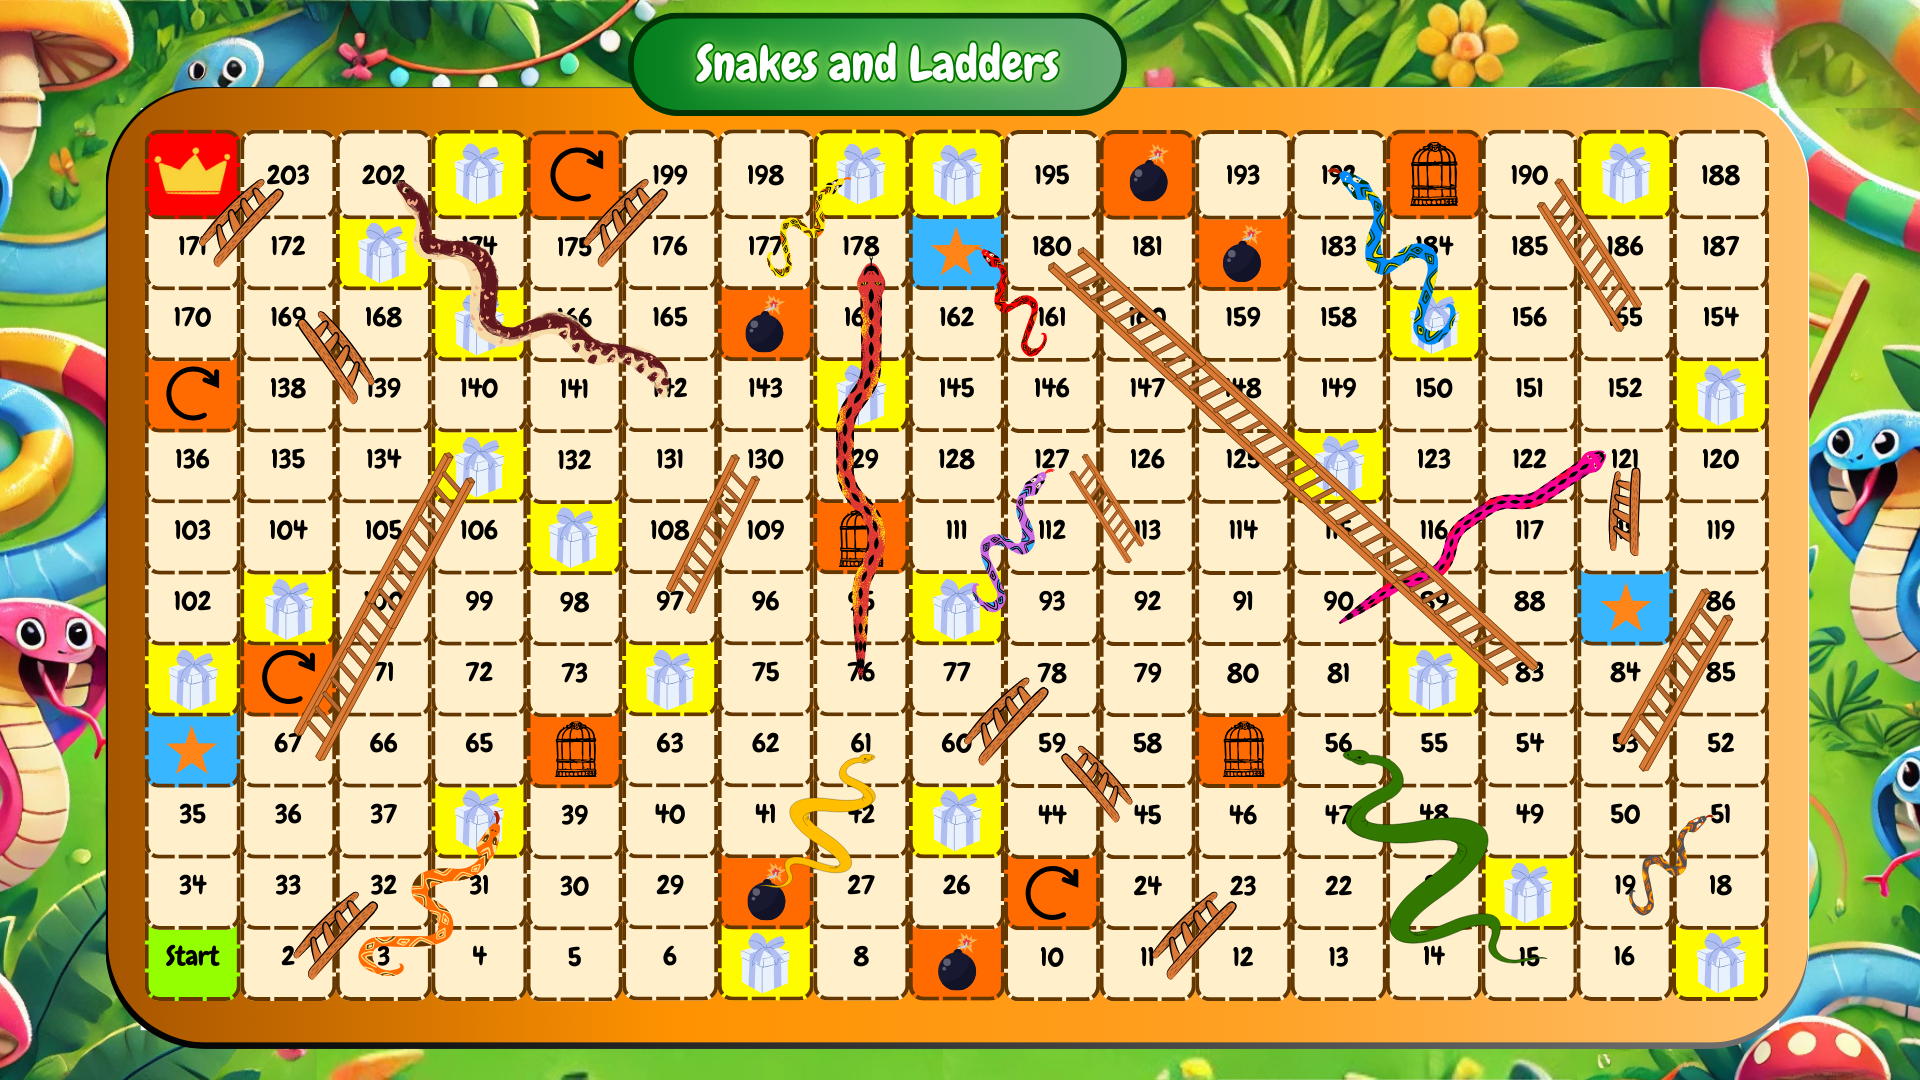
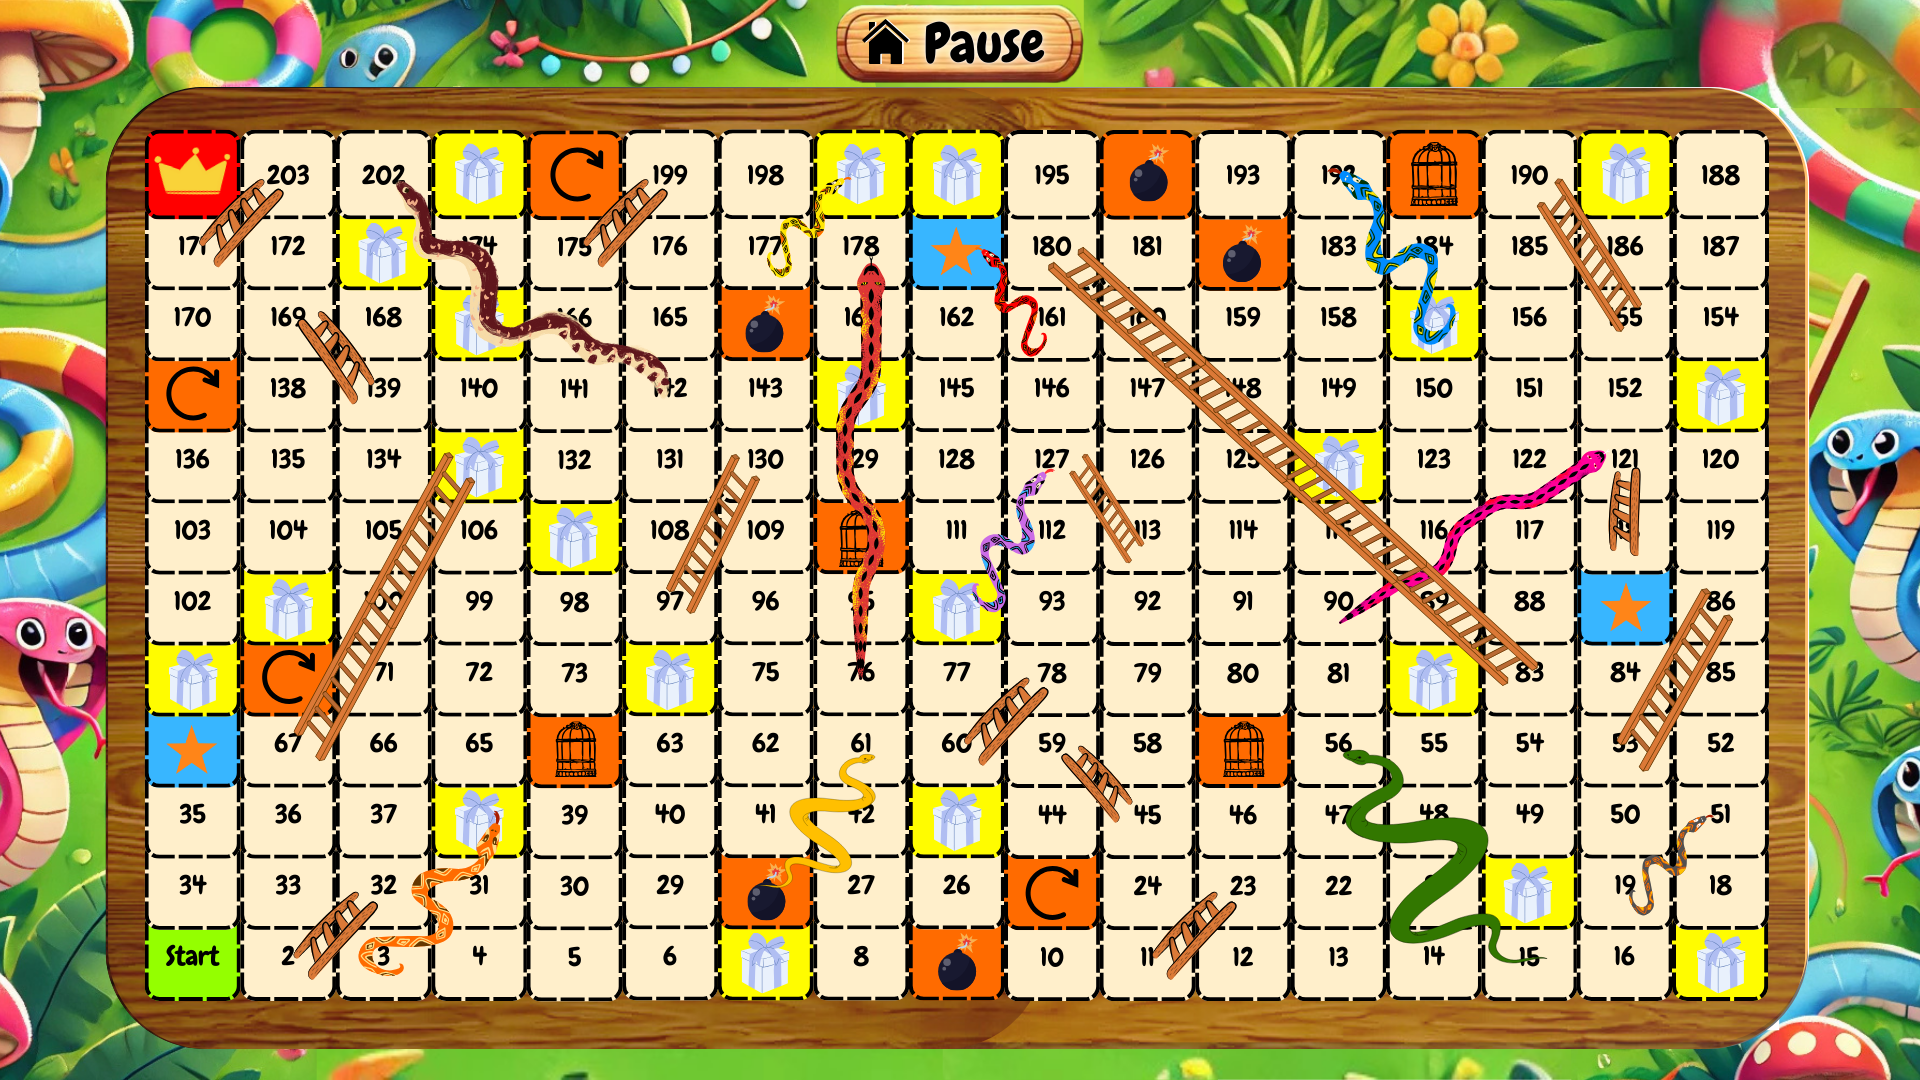
Add files via upload

Changed region(s): [[0.0312, 0.0, 0.9375, 0.9778]]

diff --git a/Snakes and Ladders/main.py b/Snakes and Ladders/main.py
@@ -1,5 +1,7 @@
+import os
 import pygame
 import button
+os.environ['SDL_VIDEO_CENTERED'] = '1'
 pygame.init()
 
 #กำหนดชื่อเกมและไอคอน
@@ -7,10 +9,56 @@ pygame.display.set_caption("Snakes and Ladders")
 icon = pygame.image.load("icon.png")
 pygame.display.set_icon(icon)
 
+#กำหนด FPS
+clock = pygame.time.Clock()
+FPS = 120
+
 #กำหนดขนาดหน้าจอ
-x = 1280
-y = 720
+x = 1920
+y = 1080
 screen = pygame.display.set_mode((x,y))
+
+def resize_screen():
+    global screen,play_button,home_button,options_button,resume_button,pause_button,option_button,quit_button,how_button,back_button,thirty_button,sixty_button,twenty_button,hd_button,fullhd_button,on_music_button,off_music_button,on_sound_button,off_sound_button
+    screen = pygame.display.set_mode((x, y))
+    if x == 1920 and y == 1080:
+        play_button = button.Button(752, 463, play_img, 1)
+        option_button = button.Button(752, 619, option_img, 1)
+        how_button = button.Button(751, 774, how_img, 1)
+        quit_button = button.Button(752, 928, quit_img, 1)
+        back_button = button.Button(58, 1005, back_img, 1/2)
+        pause_button = button.Button(836, 5, pause_img, 1)
+        resume_button = button.Button(748, 215, resume_img, 1)
+        options_button = button.Button(748, 485, options_img, 1)
+        home_button = button.Button(748, 761, home_img, 1)
+        thirty_button = button.Button(448, 198, thirty_img, 1)
+        sixty_button = button.Button(825, 198, sixty_img, 1)
+        twenty_button = button.Button(1201, 198, twenty_img, 1)
+        hd_button = button.Button(635, 427, hd_img, 1)
+        fullhd_button = button.Button(1013, 427, fullhd_img, 1)
+        on_music_button = button.Button(636, 657, on_img, 1)
+        off_music_button = button.Button(1012, 657, off_img, 1)
+        on_sound_button = button.Button(636, 886, on_img, 1)
+        off_sound_button = button.Button(1013, 886, off_img, 1)
+    elif x == 1280 and y == 720:
+        play_button = button.Button(501, 309, play_img, 1/1.5)
+        option_button = button.Button(501, 413, option_img, 1/1.5)
+        how_button = button.Button(501, 517, how_img, 1/1.5)
+        quit_button = button.Button(501, 619, quit_img, 1/1.5)
+        back_button = button.Button(45, 670, back_img, 1/3)
+        pause_button = button.Button(557, 3, pause_img, 1/1.5)
+        resume_button = button.Button(499, 143, resume_img, 1/1.5)
+        options_button = button.Button(499, 323, options_img, 1/1.5)
+        home_button = button.Button(499, 507, home_img, 1/1.5)
+        thirty_button = button.Button(299, 132, thirty_img, 1/1.5)
+        sixty_button = button.Button(550, 132, sixty_img, 1/1.5)
+        twenty_button = button.Button(801, 132, twenty_img, 1/1.5)
+        hd_button = button.Button(423, 285, hd_img, 1/1.5)
+        fullhd_button = button.Button(675, 285, fullhd_img, 1/1.5)
+        on_music_button = button.Button(424, 438, on_img, 1/1.5)
+        off_music_button = button.Button(675, 438, off_img, 1/1.5)
+        on_sound_button = button.Button(424, 591, on_img, 1/1.5)
+        off_sound_button = button.Button(675, 591, off_img, 1/1.5)
 
 #กำหนดพื้นหลัง
 def bg(img):
@@ -31,10 +79,21 @@ def draw_text(text,font,text_color,x,y):
 
 #โหลดรูปภาพปุ่ม
 play_img = pygame.image.load("button_play.png").convert_alpha()
-option_img = pygame.image.load("button_options.png").convert_alpha()
+option_img = pygame.image.load("button_option.png").convert_alpha()
 how_img = pygame.image.load("button_how.png").convert_alpha()
 quit_img = pygame.image.load("button_quit.png").convert_alpha()
 back_img = pygame.image.load("button_back.png").convert_alpha()
+pause_img = pygame.image.load("button_pause.png").convert_alpha()
+resume_img = pygame.image.load("button_resume.png").convert_alpha()
+options_img = pygame.image.load("button_options.png").convert_alpha()
+home_img = pygame.image.load("button_home.png").convert_alpha()
+thirty_img = pygame.image.load("button_30.png").convert_alpha()
+sixty_img = pygame.image.load("button_60.png").convert_alpha()
+twenty_img = pygame.image.load("button_120.png").convert_alpha()
+hd_img = pygame.image.load("button_hd.png").convert_alpha()
+fullhd_img = pygame.image.load("button_fullhd.png").convert_alpha()
+on_img = pygame.image.load("button_on.png").convert_alpha()
+off_img = pygame.image.load("button_off.png").convert_alpha()
 
 #สร้างปุ่ม
 if x == 1920 and y == 1080:
@@ -43,38 +102,159 @@ if x == 1920 and y == 1080:
     how_button = button.Button(751, 774, how_img, 1)
     quit_button = button.Button(752, 928, quit_img, 1)
     back_button = button.Button(58, 1005, back_img, 1/2)
+    pause_button = button.Button(836, 5, pause_img, 1)
+    resume_button = button.Button(748, 215, resume_img, 1)
+    options_button = button.Button(748, 485, options_img, 1)
+    home_button = button.Button(748, 761, home_img, 1)
+    thirty_button = button.Button(448, 198, thirty_img, 1)
+    sixty_button = button.Button(825, 198, sixty_img, 1)
+    twenty_button = button.Button(1201, 198, twenty_img, 1)
+    hd_button = button.Button(635, 427, hd_img, 1)
+    fullhd_button = button.Button(1013, 427, fullhd_img, 1)
+    on_music_button = button.Button(636, 657, on_img, 1)
+    off_music_button = button.Button(1012, 657, off_img, 1)
+    on_sound_button = button.Button(636, 886, on_img, 1)
+    off_sound_button = button.Button(1013, 886, off_img, 1)
 elif x == 1280 and y == 720:
     play_button = button.Button(501, 309, play_img, 1/1.5)
     option_button = button.Button(501, 413, option_img, 1/1.5)
     how_button = button.Button(501, 517, how_img, 1/1.5)
     quit_button = button.Button(501, 619, quit_img, 1/1.5)
     back_button = button.Button(45, 670, back_img, 1/3)
+    pause_button = button.Button(557, 3, pause_img, 1/1.5)
+    resume_button = button.Button(499, 143, resume_img, 1/1.5)
+    options_button = button.Button(499, 323, options_img, 1/1.5)
+    home_button = button.Button(499, 507, home_img, 1/1.5)
+    thirty_button = button.Button(299, 132, thirty_img, 1/1.5)
+    sixty_button = button.Button(550, 132, sixty_img, 1/1.5)
+    twenty_button = button.Button(801, 132, twenty_img, 1/1.5)
+    hd_button = button.Button(423, 285, hd_img, 1/1.5)
+    fullhd_button = button.Button(675, 285, fullhd_img, 1/1.5)
+    on_music_button = button.Button(424, 438, on_img, 1/1.5)
+    off_music_button = button.Button(675, 438, off_img, 1/1.5)
+    on_sound_button = button.Button(424, 591, on_img, 1/1.5)
+    off_sound_button = button.Button(675, 591, off_img, 1/1.5)
 
 #การแสดงผลหน้าต่างๆ
 def draw_home():
     bg("Home.png")
     if play_button.draw(screen):
+        pygame.time.delay(100)
         return 'game'
     if option_button.draw(screen):
-        return 'option'
+        pygame.time.delay(100)
+        return 'option_home'
     if how_button.draw(screen):
+        pygame.time.delay(100)
         return 'how'
     if quit_button.draw(screen):
+        pygame.time.delay(100)
         return 'quit'
     return 'home'
 def draw_game():
     bg("Background.png")
+    if pause_button.draw(screen):
+        pygame.time.delay(100)
+        return 'pause'
+    return 'game'
     
-def draw_option():
+def draw_option_home():
+    global FPS, x, y
     bg("Option.png")
+    if back_button.draw(screen):
+        pygame.time.delay(100)
+        return 'home'
+    if thirty_button.draw(screen):
+        pygame.time.delay(100)
+        FPS = 30
+    if sixty_button.draw(screen):
+        pygame.time.delay(100)
+        FPS = 60
+    if twenty_button.draw(screen):
+        pygame.time.delay(100)
+        FPS = 120
+    if hd_button.draw(screen):
+        pygame.time.delay(100)
+        x = 1280
+        y = 720
+        resize_screen()
+    if fullhd_button.draw(screen):
+        pygame.time.delay(100)
+        x = 1920
+        y = 1080
+        resize_screen()
+    if on_music_button.draw(screen):
+        pygame.time.delay(100)
+        return 'home'
+    if off_music_button.draw(screen):
+        pygame.time.delay(100)
+        return 'home'
+    if on_sound_button.draw(screen):
+        pygame.time.delay(100)
+        return 'home'
+    if off_sound_button.draw(screen):
+        pygame.time.delay(100)
+        return 'home'
+    return 'option_home'
 
-    return 'option'
+def draw_option_game():
+    global FPS, x, y
+    bg("Option.png")
+    if back_button.draw(screen):
+        pygame.time.delay(100)
+        return 'pause'
+    if thirty_button.draw(screen):
+        pygame.time.delay(100)
+        FPS = 30
+    if sixty_button.draw(screen):
+        pygame.time.delay(100)
+        FPS = 60
+    if twenty_button.draw(screen):
+        pygame.time.delay(100)
+        FPS = 120
+    if hd_button.draw(screen):
+        pygame.time.delay(100)
+        x = 1280
+        y = 720
+        resize_screen()
+    if fullhd_button.draw(screen):
+        pygame.time.delay(100)
+        x = 1920
+        y = 1080
+        resize_screen()
+    if on_music_button.draw(screen):
+        pygame.time.delay(100)
+        return 'home'
+    if off_music_button.draw(screen):
+        pygame.time.delay(100)
+        return 'home'
+    if on_sound_button.draw(screen):
+        pygame.time.delay(100)
+        return 'home'
+    if off_sound_button.draw(screen):
+        pygame.time.delay(100)
+        return 'home'
+    return 'option_game'
 
 def draw_how():
     bg("HowToPlay.png")
     if back_button.draw(screen):
+        pygame.time.delay(100)
         return 'home'
     return 'how'
+
+def draw_pause():
+    bg("Background_pause.png")
+    if resume_button.draw(screen):
+        pygame.time.delay(100)
+        return 'game'
+    if options_button.draw(screen):
+        pygame.time.delay(100)
+        return 'option_game'
+    if home_button.draw(screen):
+        pygame.time.delay(100)
+        return 'home'
+    return 'pause'
 
 page = 'home'
 running = True
@@ -84,10 +264,14 @@ while running:
         page = draw_home()
     elif page == 'game':
         page = draw_game()
-    elif page == 'option':
-        page = draw_option()
+    elif page == 'option_home':
+        page = draw_option_home()
+    elif page == 'option_game':
+        page = draw_option_game()
     elif page == 'how':
         page = draw_how()
+    elif page == 'pause':
+        page = draw_pause()
     elif page == 'quit':
         running = False
 
@@ -97,4 +281,5 @@ while running:
         if event.type == pygame.QUIT:
             running = False
     pygame.display.update()
+    clock.tick(FPS)
 pygame.quit()
